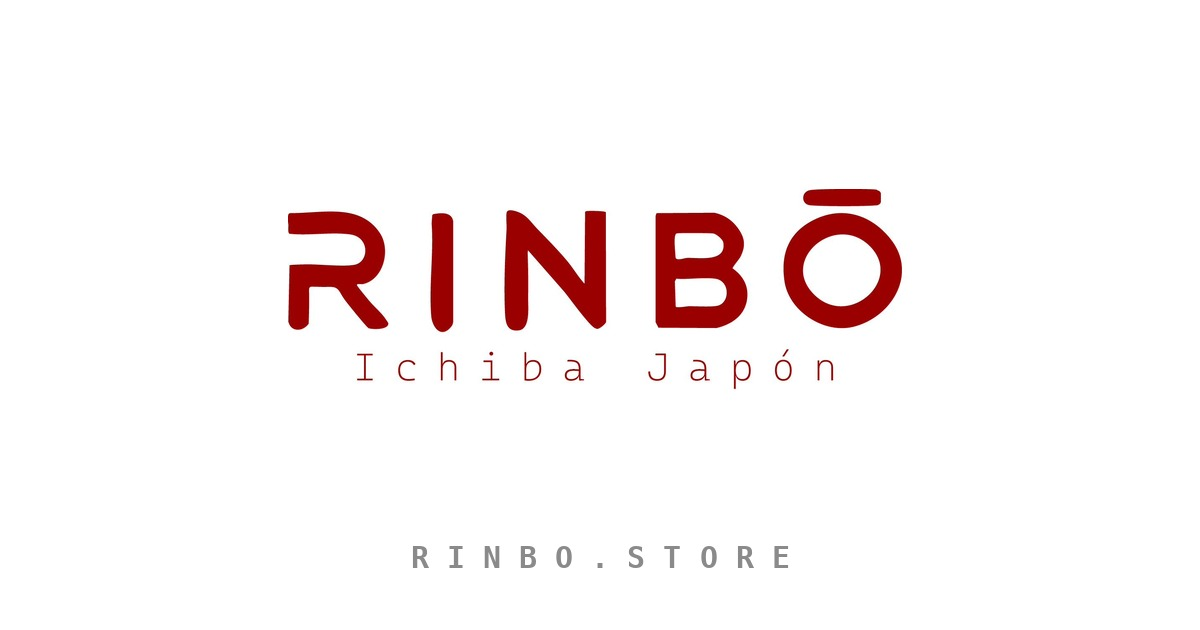
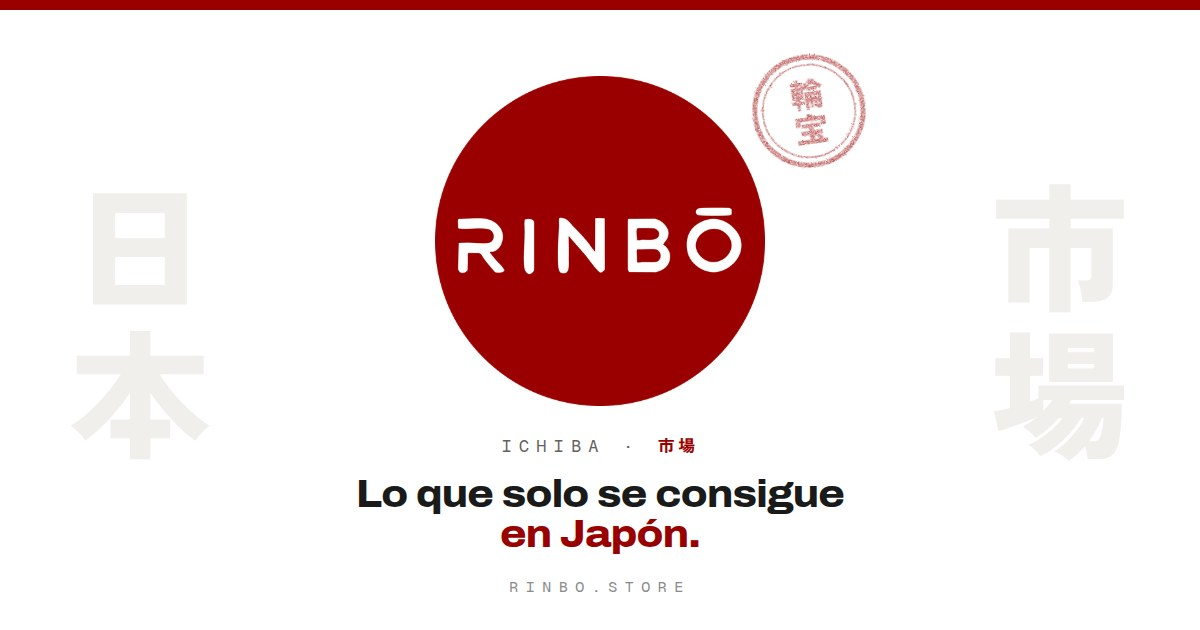
Web: nueva tarjeta para compartir (og-card) con el diseño 2026
Lo importante queda en el cuadrado central, que es lo que muestra WhatsApp.
og:image lleva ?v= para que las redes no sigan mostrando la imagen anterior.

Claude-Session: https://claude.ai/code/session_01GxT3EFEpL25JgRQi1NboSz

diff --git a/web-plantillas/og-card.html b/web-plantillas/og-card.html
@@ -1,0 +1,59 @@
+<!DOCTYPE html>
+<!-- Tarjeta para compartir (og:image, 1200x630). Se genera con: node web-plantillas/og-card.js
+     Todo lo importante va en el cuadrado central de 630x630: WhatsApp recorta la imagen a un cuadrado. -->
+<html lang="es"><head><meta charset="utf-8">
+<link rel="stylesheet" href="https://fonts.googleapis.com/css2?family=Archivo:wdth,wght@62..125,400..900&family=Geist+Mono:wght@400..600&family=Zen+Kaku+Gothic+New:wght@700;900&display=block">
+<style>
+*{margin:0;box-sizing:border-box}
+body{width:1200px;height:630px;overflow:hidden;background:#fff;color:#1A1A1A;position:relative;font-family:"Geist Mono",monospace}
+.lado{position:absolute;top:50%;transform:translateY(-50%);display:grid;font:900 140px/1.05 "Zen Kaku Gothic New",sans-serif;color:#F1EFEB}
+.izq{left:70px}.der{right:70px}
+.centro{position:absolute;left:285px;top:0;width:630px;height:630px;display:grid;justify-items:center;align-content:center;gap:0}
+.logo{width:330px;height:330px;display:block}
+.sello{position:absolute;left:465px;top:52px;width:118px;height:118px;color:#990000;opacity:.9;transform:rotate(-8deg)}
+.sub{margin-top:26px;font-size:17px;letter-spacing:.42em;text-transform:uppercase;color:#64615D}
+.sub .jp{font-family:"Zen Kaku Gothic New";letter-spacing:.2em;color:#990000;font-weight:700}
+h1{margin-top:18px;font:800 38px/1.05 "Archivo",sans-serif;font-stretch:112%;letter-spacing:-.02em;text-align:center}
+h1 em{font-style:normal;color:#990000}
+.url{position:absolute;left:0;right:0;bottom:34px;text-align:center;font-size:15px;letter-spacing:.5em;color:#8A8A8A}
+.linea{position:absolute;left:0;right:0;top:0;height:10px;background:#990000}
+</style></head><body>
+<svg width="0" height="0" style="position:absolute" aria-hidden="true">
+  <defs>
+    <filter id="ink" x="-10%" y="-10%" width="120%" height="120%">
+      <feTurbulence type="fractalNoise" baseFrequency=".85" numOctaves="2" seed="7" result="t"/>
+      <feColorMatrix in="t" type="matrix" values="0 0 0 0 0  0 0 0 0 0  0 0 0 0 0  0 0 0 -1.6 1.25" result="m"/>
+      <feComposite in="SourceGraphic" in2="m" operator="in" result="c"/>
+      <feDisplacementMap in="c" in2="t" scale="2.4"/>
+    </filter>
+    <symbol id="hanko" viewBox="0 0 120 120">
+      <g filter="url(#ink)" fill="currentColor">
+        <circle cx="60" cy="60" r="55" fill="none" stroke="currentColor" stroke-width="5"/>
+        <circle cx="60" cy="60" r="47" fill="none" stroke="currentColor" stroke-width="1.6"/>
+        <text x="60" y="56" text-anchor="middle" font-family="Zen Kaku Gothic New, Hiragino Sans, sans-serif" font-weight="900" font-size="34">輪</text>
+        <text x="60" y="92" text-anchor="middle" font-family="Zen Kaku Gothic New, Hiragino Sans, sans-serif" font-weight="900" font-size="34">宝</text>
+      </g>
+    </symbol>
+    <symbol id="i-arrow" viewBox="0 0 24 24"><path d="M7 17 17 7M9 7h8v8"/></symbol>
+    <symbol id="i-plus" viewBox="0 0 24 24"><path d="M12 5v14M5 12h14"/></symbol>
+    <symbol id="i-check" viewBox="0 0 24 24"><path d="m5 12.5 4.5 4.5L19 7.5"/></symbol>
+    <symbol id="i-plane" viewBox="0 0 24 24"><path d="M10.5 21 12 17l-2-3-6 1v-2l6-3V5.5a2 2 0 0 1 4 0V10l6 3v2l-6-1-2 3 1.5 4z"/></symbol>
+    <symbol id="i-list" viewBox="0 0 24 24"><path d="M8 7h11M8 12h11M8 17h7M4.5 7h.01M4.5 12h.01M4.5 17h.01"/></symbol>
+    <symbol id="i-close" viewBox="0 0 24 24"><path d="M6 6l12 12M18 6 6 18"/></symbol>
+    <symbol id="i-copy" viewBox="0 0 24 24"><rect x="8" y="8" width="12" height="12" rx="2.5"/><path d="M16 8V6.5A2.5 2.5 0 0 0 13.5 4h-7A2.5 2.5 0 0 0 4 6.5v7A2.5 2.5 0 0 0 6.5 16H8"/></symbol>
+    <symbol id="i-search" viewBox="0 0 24 24"><circle cx="11" cy="11" r="6.5"/><path d="m20 20-4.2-4.2"/></symbol>
+    <symbol id="i-ig" viewBox="0 0 24 24"><rect x="3.5" y="3.5" width="17" height="17" rx="5"/><circle cx="12" cy="12" r="4"/><path d="M17.2 6.8h.01"/></symbol>
+    <symbol id="i-filter" viewBox="0 0 24 24"><path d="M4 7h10M18 7h2M4 17h4M12 17h8"/><circle cx="16" cy="7" r="2"/><circle cx="10" cy="17" r="2"/></symbol>
+    <symbol id="i-chat" viewBox="0 0 24 24"><path d="M4 19.5 5.3 15A8 8 0 1 1 9 18.7z"/></symbol>
+  </defs>
+</svg>
+<div class="linea"></div>
+<span class="lado izq"><span>日</span><span>本</span></span><span class="lado der"><span>市</span><span>場</span></span>
+<div class="centro">
+  <img class="logo" src="../web/img/logo.png" alt="">
+  <svg class="sello" viewBox="0 0 120 120"><use href="#hanko"/></svg>
+  <div class="sub">Ichiba · <span class="jp">市場</span></div>
+  <h1>Lo que solo se consigue<br><em>en Japón.</em></h1>
+</div>
+<div class="url">RINBO.STORE</div>
+</body></html>

diff --git a/web-plantillas/og-card.js b/web-plantillas/og-card.js
@@ -1,0 +1,20 @@
+// Genera web/img/og-card.jpg (1200x630) desde og-card.html. Uso: node web-plantillas/og-card.js
+// Requiere Playwright (en el entorno de Claude ya está instalado de forma global).
+const path = require('path');
+let pw; try { pw = require('playwright'); } catch (e) { pw = require(require('child_process').execSync('npm root -g').toString().trim() + '/playwright'); }
+(async () => {
+  const b = await pw.chromium.launch(process.env.PLAYWRIGHT_BROWSERS_PATH ? { executablePath: '/opt/pw-browsers/chromium' } : {});
+  const p = await b.newPage({ viewport: { width: 1200, height: 630 } });
+  // Las fuentes de Google se descargan con curl (así también funciona detrás de un proxy)
+  const { execFileSync } = require('child_process');
+  await p.route(/fonts\.(googleapis|gstatic)\.com/, r => {
+    const cuerpo = execFileSync('curl', ['-sL', '-A', 'Mozilla/5.0 Chrome/120', r.request().url()], { maxBuffer: 64 * 1024 * 1024 });
+    r.fulfill({ status: 200, body: cuerpo, contentType: /googleapis/.test(r.request().url()) ? 'text/css' : 'font/ttf', headers: { 'access-control-allow-origin': '*' } });
+  });
+  await p.goto('file://' + path.join(__dirname, 'og-card.html'));
+  await p.evaluate(() => document.fonts.ready);
+  await p.waitForTimeout(300);
+  await p.screenshot({ path: path.join(__dirname, '..', 'web', 'img', 'og-card.jpg'), type: 'jpeg', quality: 88 });
+  await b.close();
+  console.log('Listo: web/img/og-card.jpg');
+})();

diff --git a/web/como-funciona.html b/web/como-funciona.html
@@ -15,7 +15,7 @@
 <meta property="og:site_name" content="RINBŌ Ichiba">
 <meta property="og:title" content="RINBŌ Ichiba — Lo que solo se consigue en Japón">
 <meta property="og:description" content="Productos japoneses auténticos, comprados en persona en Japón y enviados a Chile. Coleccionables, vestuario, relojes y encargos. Precios finales en CLP.">
-<meta property="og:image" content="https://rinbo.store/img/og-card.jpg">
+<meta property="og:image" content="https://rinbo.store/img/og-card.jpg?v=4597b0e5">
 <meta property="og:url" content="https://rinbo.store/como-funciona.html">
 <meta property="og:type" content="website">
 <meta name="twitter:card" content="summary_large_image">

diff --git a/web/seguimiento.html b/web/seguimiento.html
@@ -15,7 +15,7 @@
 <meta property="og:site_name" content="RINBŌ Ichiba">
 <meta property="og:title" content="RINBŌ Ichiba — Lo que solo se consigue en Japón">
 <meta property="og:description" content="Productos japoneses auténticos, comprados en persona en Japón y enviados a Chile. Coleccionables, vestuario, relojes y encargos. Precios finales en CLP.">
-<meta property="og:image" content="https://rinbo.store/img/og-card.jpg">
+<meta property="og:image" content="https://rinbo.store/img/og-card.jpg?v=4597b0e5">
 <meta property="og:url" content="https://rinbo.store/seguimiento.html">
 <meta property="og:type" content="website">
 <meta name="twitter:card" content="summary_large_image">

diff --git a/web/producto.html b/web/producto.html
@@ -15,7 +15,7 @@
 <meta property="og:site_name" content="RINBŌ Ichiba">
 <meta property="og:title" content="RINBŌ Ichiba — Lo que solo se consigue en Japón">
 <meta property="og:description" content="Productos japoneses auténticos, comprados en persona en Japón y enviados a Chile. Coleccionables, vestuario, relojes y encargos. Precios finales en CLP.">
-<meta property="og:image" content="https://rinbo.store/img/og-card.jpg">
+<meta property="og:image" content="https://rinbo.store/img/og-card.jpg?v=4597b0e5">
 <meta property="og:url" content="https://rinbo.store/producto.html">
 <meta property="og:type" content="website">
 <meta name="twitter:card" content="summary_large_image">

diff --git a/web/acerca.html b/web/acerca.html
@@ -15,7 +15,7 @@
 <meta property="og:site_name" content="RINBŌ Ichiba">
 <meta property="og:title" content="RINBŌ Ichiba — Lo que solo se consigue en Japón">
 <meta property="og:description" content="Productos japoneses auténticos, comprados en persona en Japón y enviados a Chile. Coleccionables, vestuario, relojes y encargos. Precios finales en CLP.">
-<meta property="og:image" content="https://rinbo.store/img/og-card.jpg">
+<meta property="og:image" content="https://rinbo.store/img/og-card.jpg?v=4597b0e5">
 <meta property="og:url" content="https://rinbo.store/acerca.html">
 <meta property="og:type" content="website">
 <meta name="twitter:card" content="summary_large_image">

diff --git a/web/tienda.html b/web/tienda.html
@@ -15,7 +15,7 @@
 <meta property="og:site_name" content="RINBŌ Ichiba">
 <meta property="og:title" content="RINBŌ Ichiba — Lo que solo se consigue en Japón">
 <meta property="og:description" content="Productos japoneses auténticos, comprados en persona en Japón y enviados a Chile. Coleccionables, vestuario, relojes y encargos. Precios finales en CLP.">
-<meta property="og:image" content="https://rinbo.store/img/og-card.jpg">
+<meta property="og:image" content="https://rinbo.store/img/og-card.jpg?v=4597b0e5">
 <meta property="og:url" content="https://rinbo.store/tienda.html">
 <meta property="og:type" content="website">
 <meta name="twitter:card" content="summary_large_image">

diff --git a/web/faq.html b/web/faq.html
@@ -15,7 +15,7 @@
 <meta property="og:site_name" content="RINBŌ Ichiba">
 <meta property="og:title" content="RINBŌ Ichiba — Lo que solo se consigue en Japón">
 <meta property="og:description" content="Productos japoneses auténticos, comprados en persona en Japón y enviados a Chile. Coleccionables, vestuario, relojes y encargos. Precios finales en CLP.">
-<meta property="og:image" content="https://rinbo.store/img/og-card.jpg">
+<meta property="og:image" content="https://rinbo.store/img/og-card.jpg?v=4597b0e5">
 <meta property="og:url" content="https://rinbo.store/faq.html">
 <meta property="og:type" content="website">
 <meta name="twitter:card" content="summary_large_image">

diff --git a/web/index.html b/web/index.html
@@ -15,7 +15,7 @@
 <meta property="og:site_name" content="RINBŌ Ichiba">
 <meta property="og:title" content="RINBŌ Ichiba — Lo que solo se consigue en Japón">
 <meta property="og:description" content="Productos japoneses auténticos, comprados en persona en Japón y enviados a Chile. Coleccionables, vestuario, relojes y encargos. Precios finales en CLP.">
-<meta property="og:image" content="https://rinbo.store/img/og-card.jpg">
+<meta property="og:image" content="https://rinbo.store/img/og-card.jpg?v=4597b0e5">
 <meta property="og:url" content="https://rinbo.store/">
 <meta property="og:type" content="website">
 <meta name="twitter:card" content="summary_large_image">

diff --git a/web-plantillas/armar.py b/web-plantillas/armar.py
@@ -41,7 +41,7 @@ def armar_css():
         encoding='utf-8')
 
 
-def pagina(nombre, titulo, main, defs, v_css, v_js):
+def pagina(nombre, titulo, main, defs, v_css, v_js, v_og):
     archivo = f'{nombre}.html'
     cur = lambda f: ' aria-current="page"' if f == archivo else ''
     seg = lambda f: ' class="nav-seg"' if f == 'seguimiento.html' else ''
@@ -66,7 +66,7 @@ def pagina(nombre, titulo, main, defs, v_css, v_js):
 <meta property="og:site_name" content="RINBŌ Ichiba">
 <meta property="og:title" content="RINBŌ Ichiba — Lo que solo se consigue en Japón">
 <meta property="og:description" content="{OG_DESC}">
-<meta property="og:image" content="https://rinbo.store/img/og-card.jpg">
+<meta property="og:image" content="https://rinbo.store/img/og-card.jpg?v={v_og}">
 <meta property="og:url" content="{url}">
 <meta property="og:type" content="website">
 <meta name="twitter:card" content="summary_large_image">
@@ -157,7 +157,7 @@ RUTA = '''<div class="route mono" aria-label="Desde Japón a Chile"><strong>JP</
 def main():
     defs = (AQUI / 'comun.html').read_text(encoding='utf-8').strip()
     armar_css()
-    v_css, v_js = huella(WEB / 'css' / 'rinbo.css'), huella(WEB / 'js' / 'rinbo.js')
+    v_css, v_js, v_og = huella(WEB / 'css' / 'rinbo.css'), huella(WEB / 'js' / 'rinbo.js'), huella(WEB / 'img' / 'og-card.jpg')
     for nombre in ['index', 'tienda', 'producto', 'como-funciona', 'acerca', 'faq', 'seguimiento']:
         src = (AQUI / 'paginas' / f'{nombre}.html').read_text(encoding='utf-8')
         titulo, contenido = src.split('\n', 1)
@@ -166,7 +166,7 @@ def main():
             a = contenido.index('{CRUMBS:'); b = contenido.index('}', a)
             spec = contenido[a + 8:b].split('|')
             contenido = contenido[:a] + migas(*[tuple(s.split('>')) if '>' in s else ('', s) for s in spec]) + contenido[b + 1:]
-        pagina(nombre, titulo.strip(), contenido.rstrip(), defs, v_css, v_js)
+        pagina(nombre, titulo.strip(), contenido.rstrip(), defs, v_css, v_js, v_og)
     print('Listo: 7 páginas, css/rinbo.css (v=%s), js/rinbo.js (v=%s)' % (v_css, v_js))
 
 

diff --git a/CLAUDE.md b/CLAUDE.md
@@ -26,6 +26,7 @@ Los 7 HTML de `web/` y `web/css/rinbo.css` son **generados**: no editarlos a man
 - `comun.html`: íconos y sello SVG. Cabecera, menú, pie, panel de cotización y `<head>` (meta, og:*) están en `armar.py`.
 - `css/_base.css, _tienda.css, _paginas.css, _tienda2.css` (diseño original) + `_ajustes.css` (ajustes para datos reales).
 - Después de cualquier cambio (también en `web/js/rinbo.js`): `python3 web-plantillas/armar.py`. Agrega `?v=<huella>` a rinbo.css/rinbo.js para que los navegadores no usen la versión vieja.
+- `og-card.html` + `og-card.js`: tarjeta para compartir (`web/img/og-card.jpg`, 1200x630; lo importante en el cuadrado central porque WhatsApp la recorta). Regenerar con `node web-plantillas/og-card.js` y luego `armar.py` (el `og:image` lleva `?v=` para que WhatsApp/Facebook no usen la vieja).
 - La maqueta original del dueño está en `docs/diseno/mockup/` (solo referencia).
 
 ## js/rinbo.js
